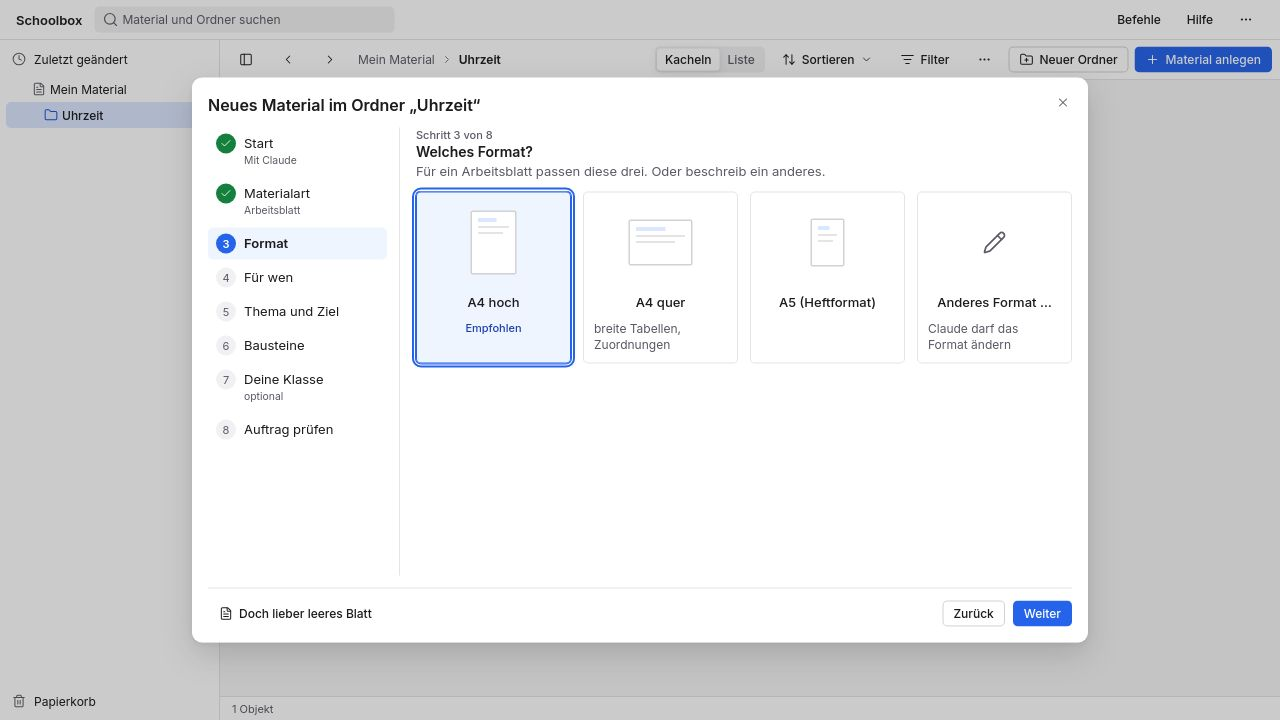
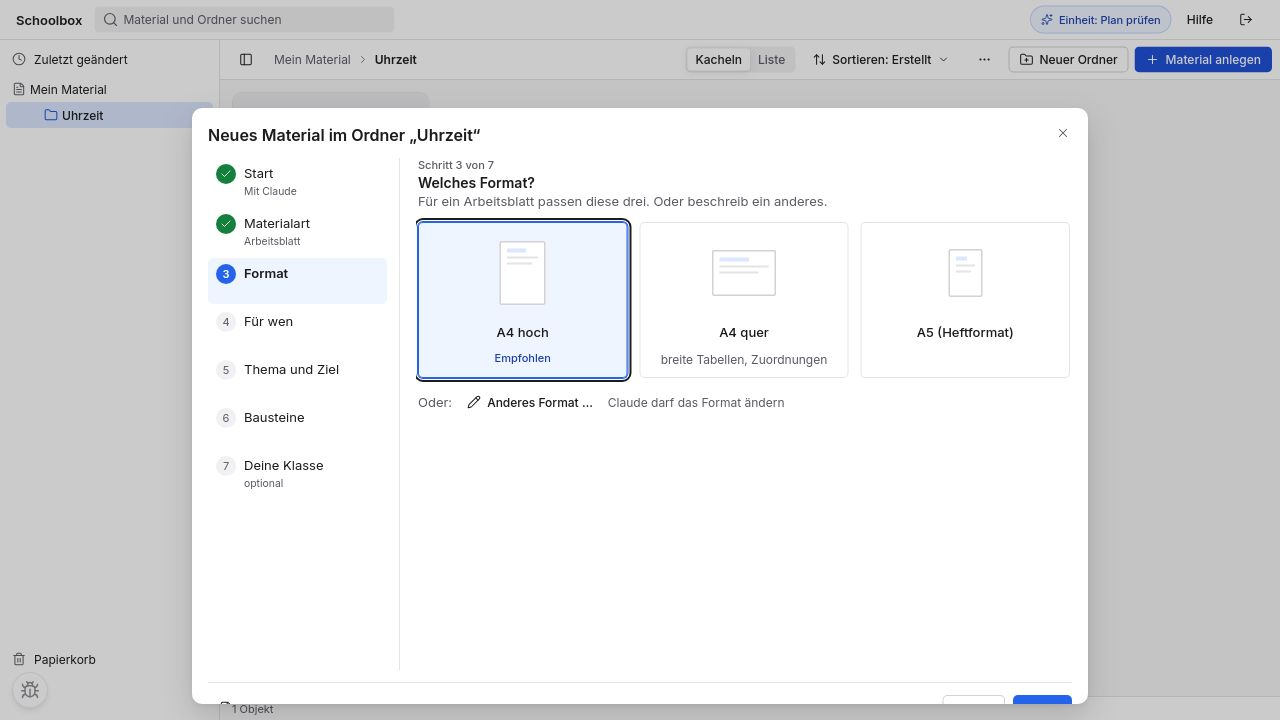
UX 186: Hilfe-Fotos neu
Aufgabenplan statt des letzten Assistentenschritts, Einheit mit Freigabe des Plans; das
Foto-Skript wartet geduldiger auf Blatt und Vorschauen.

diff --git a/schoolbox/web/e2e/hilfe-bilder.ts b/schoolbox/web/e2e/hilfe-bilder.ts
@@ -16,7 +16,7 @@ import {
 	schreibeMeta,
 } from '@schoolbox/kern';
 
-import { material, oeffne } from './editorhilfe';
+import { material } from './editorhilfe';
 import { dokumentOrdner, expect, legeMappeAn, oeffneMehr, test } from './hilfe';
 
 const MATERIAL_DIR = process.env.E2E_MATERIAL_DIR ?? '';
@@ -73,7 +73,7 @@ const einmaleins = async () => {
 
 /** Wartet, bis alle Vorschaubilder auf der Seite da sind; blatt.py braucht dafür einige Sekunden je Blatt. */
 const vorschauenDa = async (page: Page, anzahl: number) => {
-	await expect(page.locator('main img')).toHaveCount(anzahl, { timeout: 60_000 });
+	await expect(page.locator('main img')).toHaveCount(anzahl, { timeout: 180_000 });
 	await expect
 		.poll(() =>
 			page.locator('main img').evaluateAll((bilder) => bilder.every((b) => (b as HTMLImageElement).complete)),
@@ -84,6 +84,13 @@ const vorschauenDa = async (page: Page, anzahl: number) => {
 const foto = async (page: Page, name: string) => {
 	await page.evaluate(() => document.fonts.ready);
 	await page.screenshot({ path: path.join(ZIEL, name), type: 'jpeg', quality: 80, scale: 'css' });
+};
+
+/** Wie `oeffne` aus `editorhilfe.ts`, mit Geduld: Die Fotos laufen oft neben anderer Arbeit, das Blatt lädt dann langsam. */
+const oeffne = async (page: Page, mappe: string, dok: string) => {
+	await page.goto(`/m/${mappe}/${dok}/bearbeiten`);
+	await expect(page.locator('[data-leinwand][data-geladen]')).toBeVisible({ timeout: 60_000 });
+	await expect(page.locator('[data-speicherstand="gespeichert"]')).toBeVisible({ timeout: 30_000 });
 };
 
 const nurAuf = (geraet: 'mac' | 'ipad') => test.skip(test.info().project.name !== geraet, `nur ${geraet}`);
@@ -216,7 +223,7 @@ test.describe('Bildschirmfotos für die Hilfe', () => {
 		await writeFile(path.join(`${MATERIAL_DIR}-ki`, 'fall.txt'), 'plan');
 		await page.keyboard.press('ControlOrMeta+Enter');
 		const plan = page.locator('[data-entwurf-karte="plan"]');
-		await expect(plan.locator('[data-entwurf-plan]')).toContainText('Aufgabenplan');
+		await expect(plan.locator('[data-entwurf-plan]')).toContainText('Aufgabenplan', { timeout: 60_000 });
 		await foto(page, 'anlegen-plan-mac.jpg');
 		await plan.getByRole('button', { name: 'So bauen' }).click();
 		const leiste = page.locator('[data-entwurfsleiste="offen"]');
@@ -246,7 +253,9 @@ test.describe('Bildschirmfotos für die Hilfe', () => {
 			await expect(dialog.locator(`[data-assistent="${id}"]`)).toBeVisible();
 		}
 		await page.keyboard.press('Enter');
-		await expect(page.locator('[data-einheit-platzhalter] li')).toHaveCount(1);
+		// Zuerst steht der Plan der Einheit im Band; gebaut wird nach „So bauen“.
+		await page.locator('[data-einheit-band]').getByRole('button', { name: 'So bauen' }).click({ timeout: 60_000 });
+		await expect(page.locator('[data-einheit-platzhalter] li')).toHaveCount(1, { timeout: 60_000 });
 		await expect(page.locator('[data-objekt]')).toHaveCount(1);
 		await foto(page, 'einheit-mac.jpg');
 		await page.locator('[data-einheit-band]').getByRole('button', { name: 'Abbrechen' }).click();
